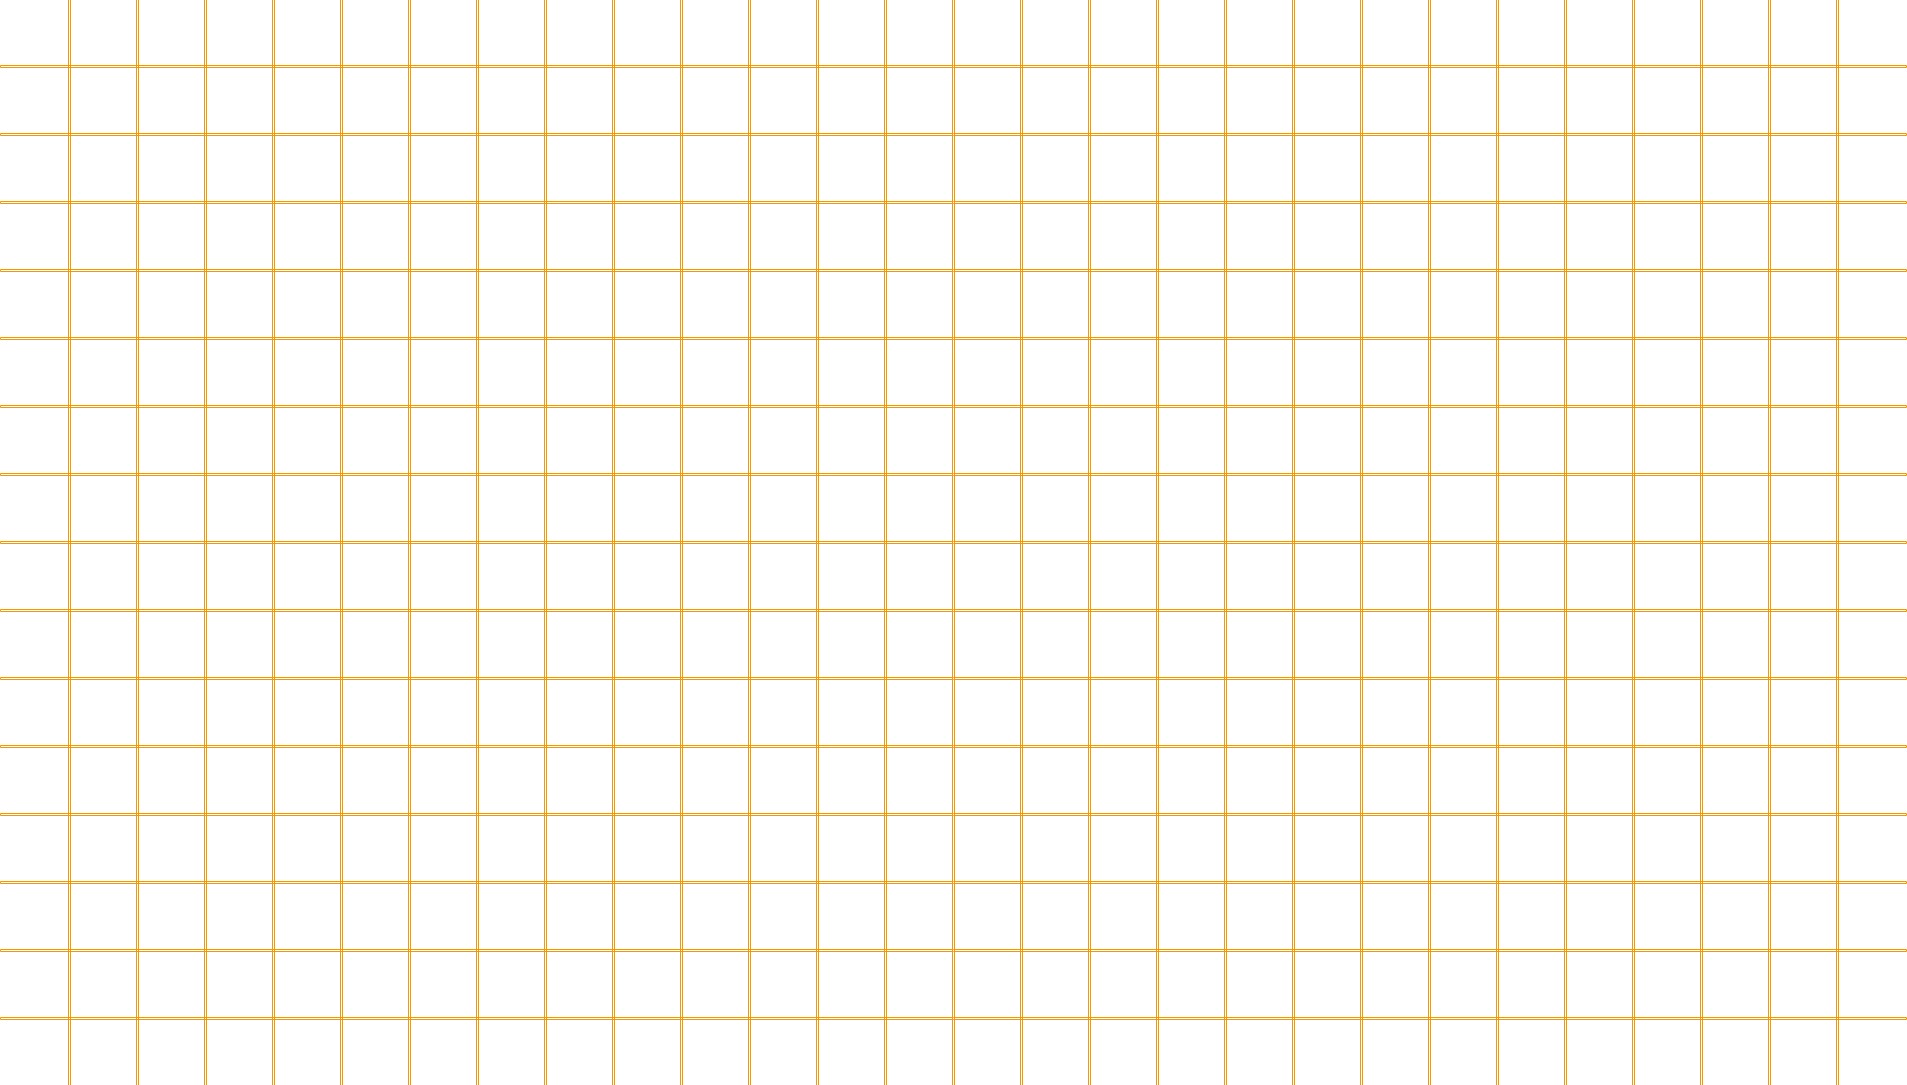
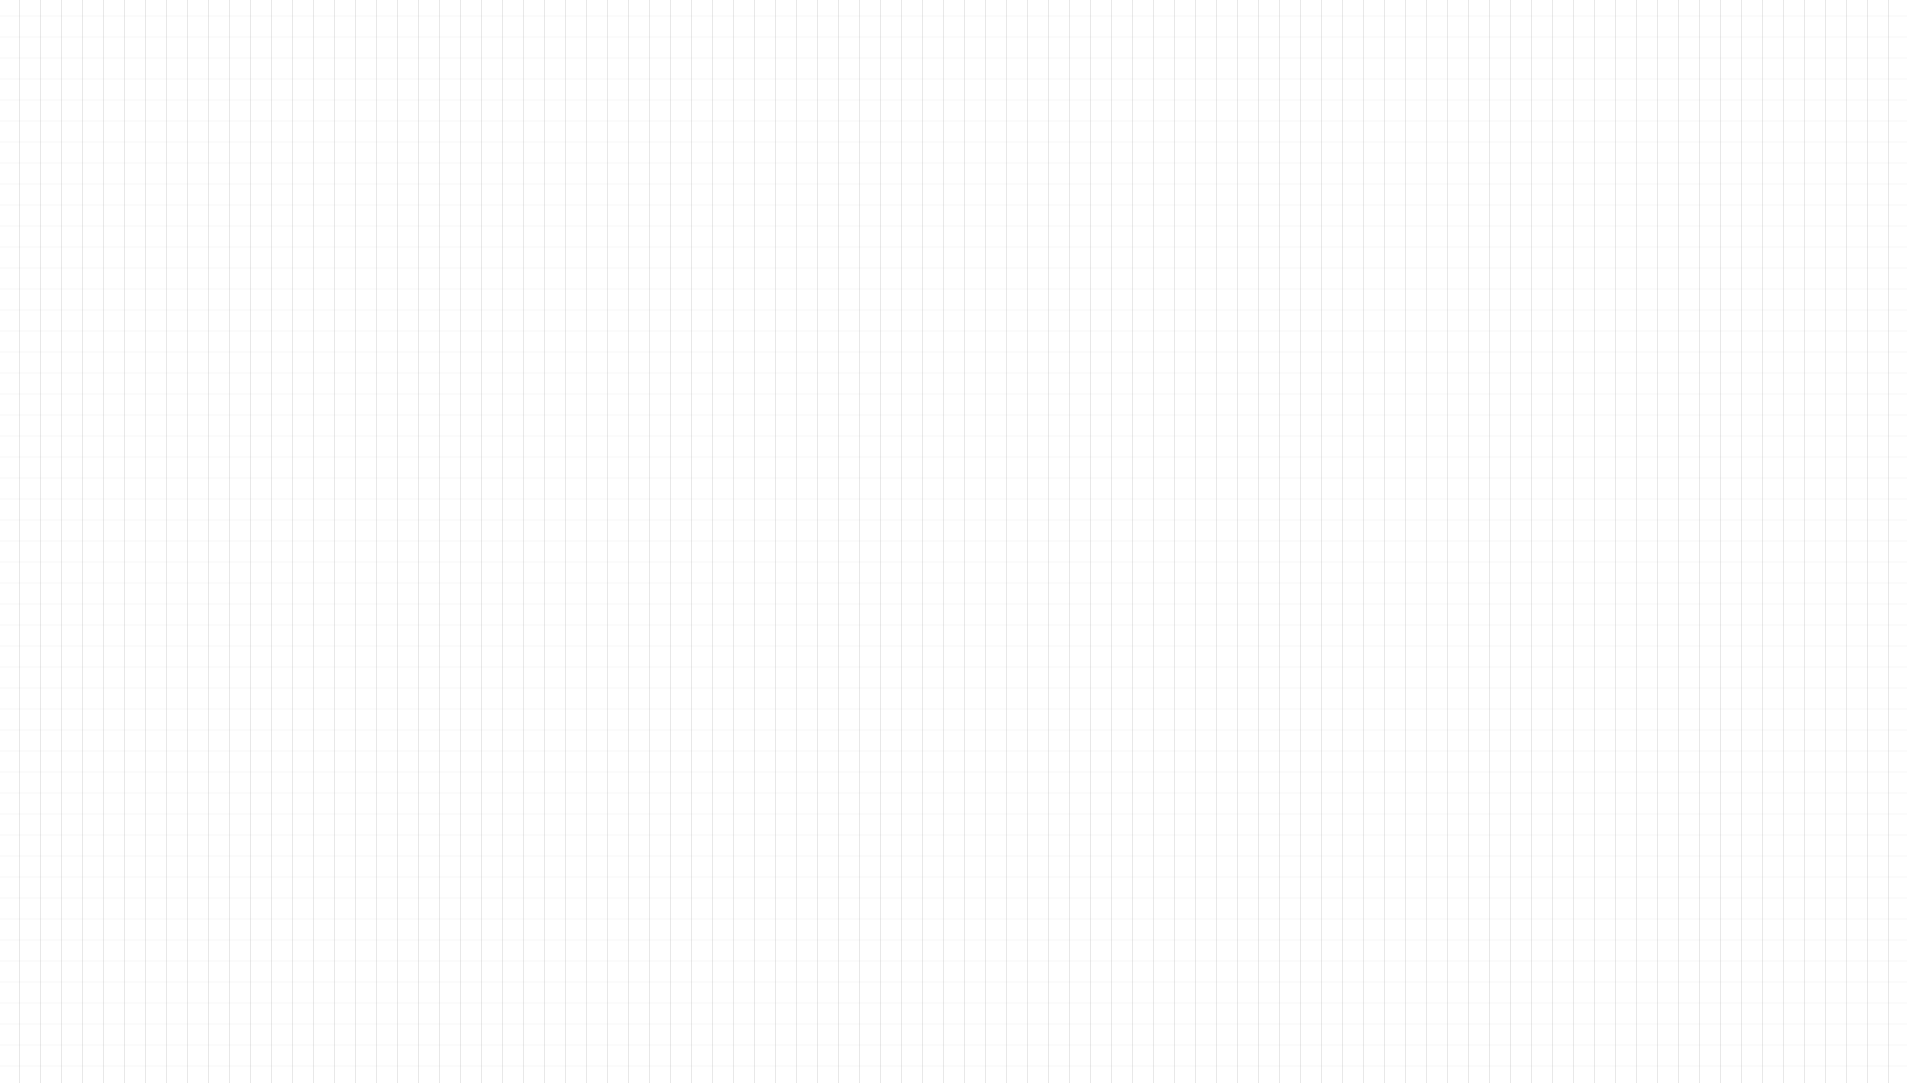
常見問題RWD/旅館環景修正

diff --git a/dev/sass/page/_lovepet_faq.scss b/dev/sass/page/_lovepet_faq.scss
@@ -1,12 +1,16 @@
 .faq_wrapper{
     width: 100%;
     background-image: url(../img/index/faq_bg.png);
-    background-repeat: no-repeat;
-    background-size: cover;
+    background-repeat: repeat;
 
     .faq_main{
         width: 85%;
-        margin: 45px auto;
+        margin: 0 auto;
+        padding: 45px 0 27px 0;
+
+        @include mobile{
+            width: 95%;
+        }
 
         .faq_talk_bubble1{
             width: 100%;
@@ -17,19 +21,44 @@
                 display: inline-block;
                 vertical-align: middle;
                 margin-right: 30px;
+
+                @include mobile{
+                    width: 65px;
+                    margin-right: 20px;
+                }
             }
     
             .faq_talk {
-                width: 475px;
-                background-color:rgba(255,200,87,.15);
+                width: 470px;
+                background-color: #FFF7E5;
                 position: relative;
                 display: inline-block;
                 vertical-align: middle;
                 border-radius: 30px;
+
+                @include pad{
+                    width: 400px;
+                }
+
+                @media (min-width: 429px) and (max-width: 615px){
+                    width: 220px;
+                }
+
+                @media (min-width: 375px) and (max-width: 428px){
+                    width: 180px;
+                }
+
+                @include iphoneX{
+                    width: 170px;
+                }
     
                 .faq_talktext{
                     padding: 20px 16px;
-                    line-height: 36px;                
+                    line-height: 36px;
+                    
+                    @include mobile{
+                        padding: 20px 10px;
+                    }                    
     
                     .faq_topic{
                         color: #707070;
@@ -40,7 +69,7 @@
             .faq_say1:after{
                 content: ' ';
                 border: 12px solid;
-                border-color: transparent rgba(255,200,87,.15) rgba(255,200,87,.15) transparent;
+                border-color: transparent #FFF7E5 #FFF7E5 transparent;
                 position: absolute;
                 top: 50%;
                 transform: translateY(-50%);
@@ -54,30 +83,52 @@
             margin-bottom: 20px;
     
             .faq_talk {
-                width: 500px;
-                // 1000破版
-                background-color:rgba(255,200,87,.15);
+                width: 602px;
+                background-color:#FFF7E5;
                 position: relative;
                 display: inline-block;
                 vertical-align: middle;
                 border-radius: 30px;
+
+                @media (min-width: 1800px) and (max-width: 1920px) {
+                    width: 1100px;
+                }
+
+                @media (min-width: 1650px) and (max-width: 1799px) {
+                    width: 1000px;
+                }
     
-                // @media (min-width: 1400px) and (max-width: 1680px) {
-                //     width: 800px;
-                // }
+                @media (min-width: 1400px) and (max-width: 1649px) {
+                    width: 800px;
+                }
     
-                // @media (min-width: 1281px) and (max-width: 1399px) {
-                //     width: 700px;
-                // }
+                @media (min-width: 1281px) and (max-width: 1399px) {
+                    width: 700px;
+                }
     
-                // @media notebook {
-                //     width: 600px;
-                //     // 這裡RWD怪怪的
-                // }
+                @include pad{
+                    width: 400px;
+                }
+
+                @media (min-width: 429px) and (max-width: 615px){
+                    width: 220px;
+                }
+
+                @media (min-width: 375px) and (max-width: 428px){
+                    width: 180px;
+                }
+
+                @include iphoneX{
+                    width: 170px;
+                }
     
                 .faq_talktext{
                     padding: 20px 16px;
-                    line-height: 36px;                
+                    line-height: 36px;
+                    
+                    @include mobile{
+                        padding: 20px 10px;
+                    }
     
                     .faq_answer{
                         color: #000000;
@@ -96,7 +147,7 @@
             .faq_say2:after{
                 content: ' ';
                 border: 12px solid;
-                border-color: rgba(255,200,87,.15) transparent transparent rgba(255,200,87,.15);
+                border-color: #FFF7E5 transparent transparent #FFF7E5;
                 position: absolute;
                 top: 50%;
                 transform: translateY(-50%);
@@ -108,6 +159,11 @@
                 display: inline-block;
                 vertical-align: middle;
                 margin-left: 30px;
+
+                @include mobile{
+                    width: 65px;
+                    margin-left: 20px;
+                }
             }
         }
     }    

diff --git a/dev/lovepet_faq.html b/dev/lovepet_faq.html
@@ -17,7 +17,7 @@
     <div class="i_banner">
         <div class="i_banner_left"><img src="img/clinic/headerTree2.png" alt=""></div>
         <div class="i_banner_center">
-            <img class="i_clinic_center_left" src="img/index/header_delivery.png" alt="">
+            <img class="i_faq_center" src="img/index/header_delivery.png" alt="">
             <h1><span>常見</span>FAQ</h1>
         </div>
         <div class="i_banner_right"><img src="img/clinic/headerTree1.png" alt=""></div>

diff --git a/dev/js/hotel_vue.js b/dev/js/hotel_vue.js
@@ -88,6 +88,12 @@ let vm = new Vue({
                     type: "info",
                     text: "漂浮水碗",
                 },
+                {
+                    pitch: -27,
+                    yaw: 165,
+                    type: "info",
+                    text: "潔牙玩具/寵物木眠床",
+                },
             ],
         ],
         rooms: [//資料庫房型資料

diff --git a/dev/sass/module/_banner.scss b/dev/sass/module/_banner.scss
@@ -91,7 +91,15 @@
             @include iphoneX {
                 display: none;
             }
+        }
 
+        //常見問題
+        .i_faq_center {
+            max-width: 110px;
+
+            @include iphoneX {
+                max-width: 70px;
+            }
         }
     }
     .i_banner_right {
